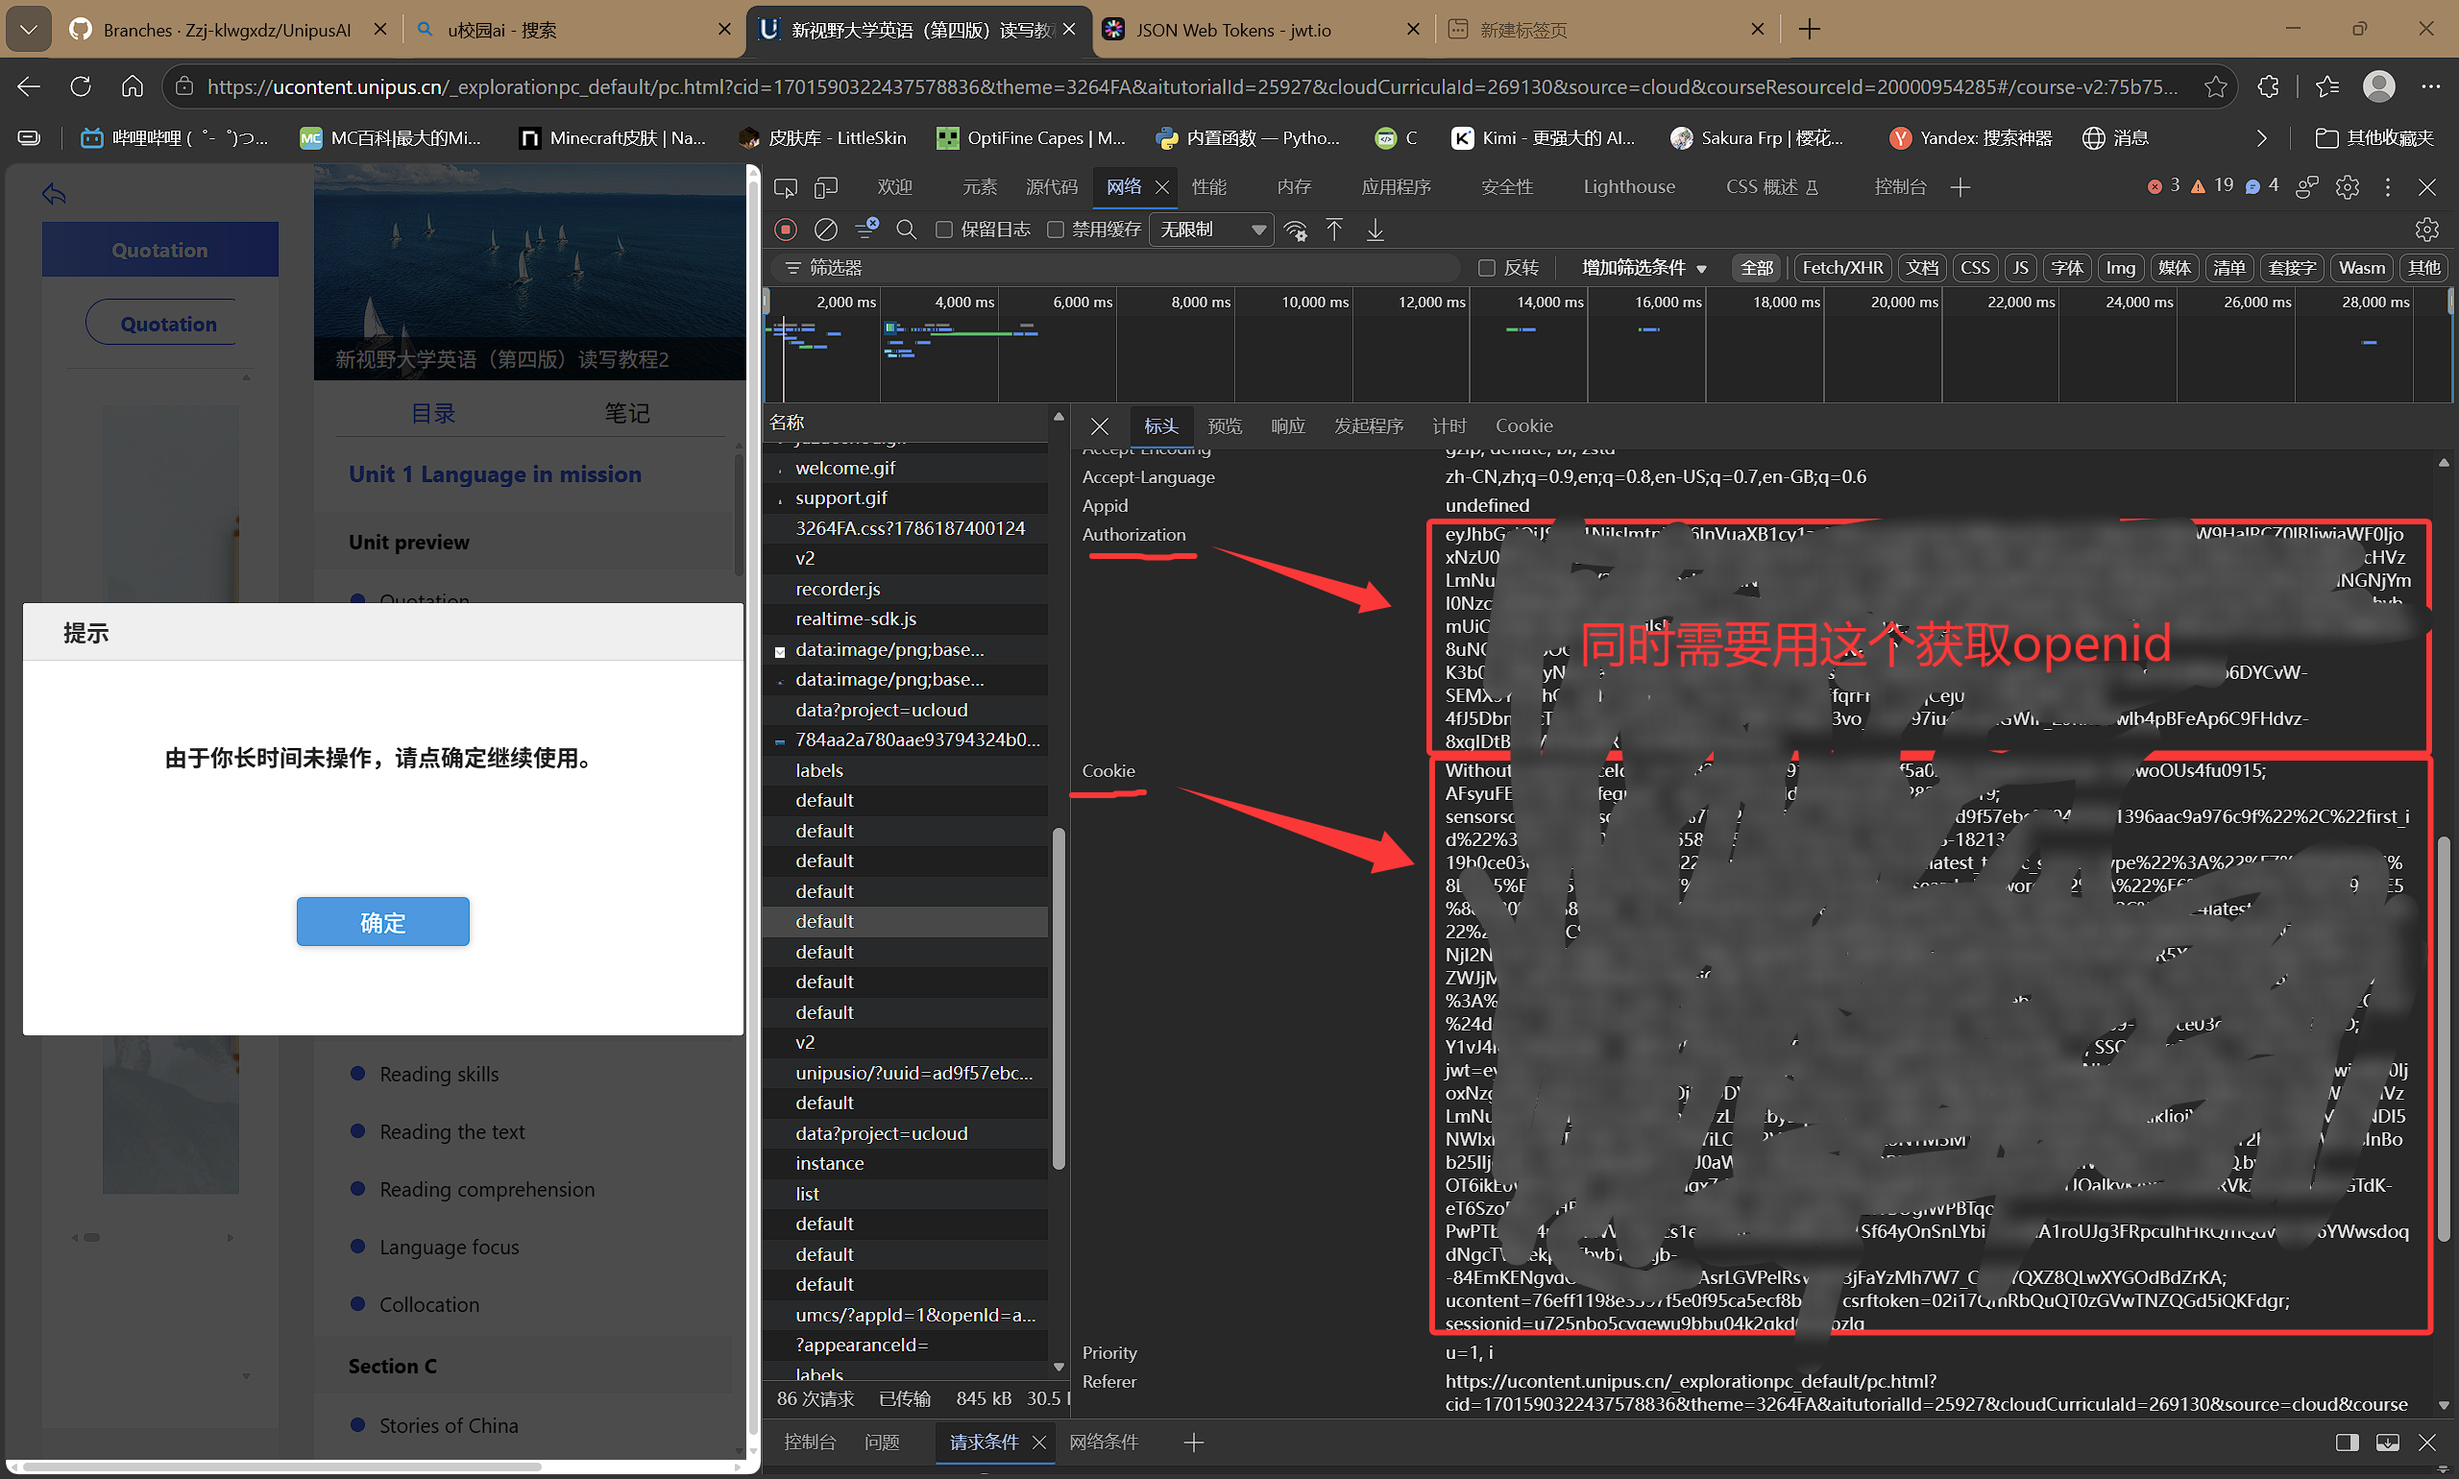
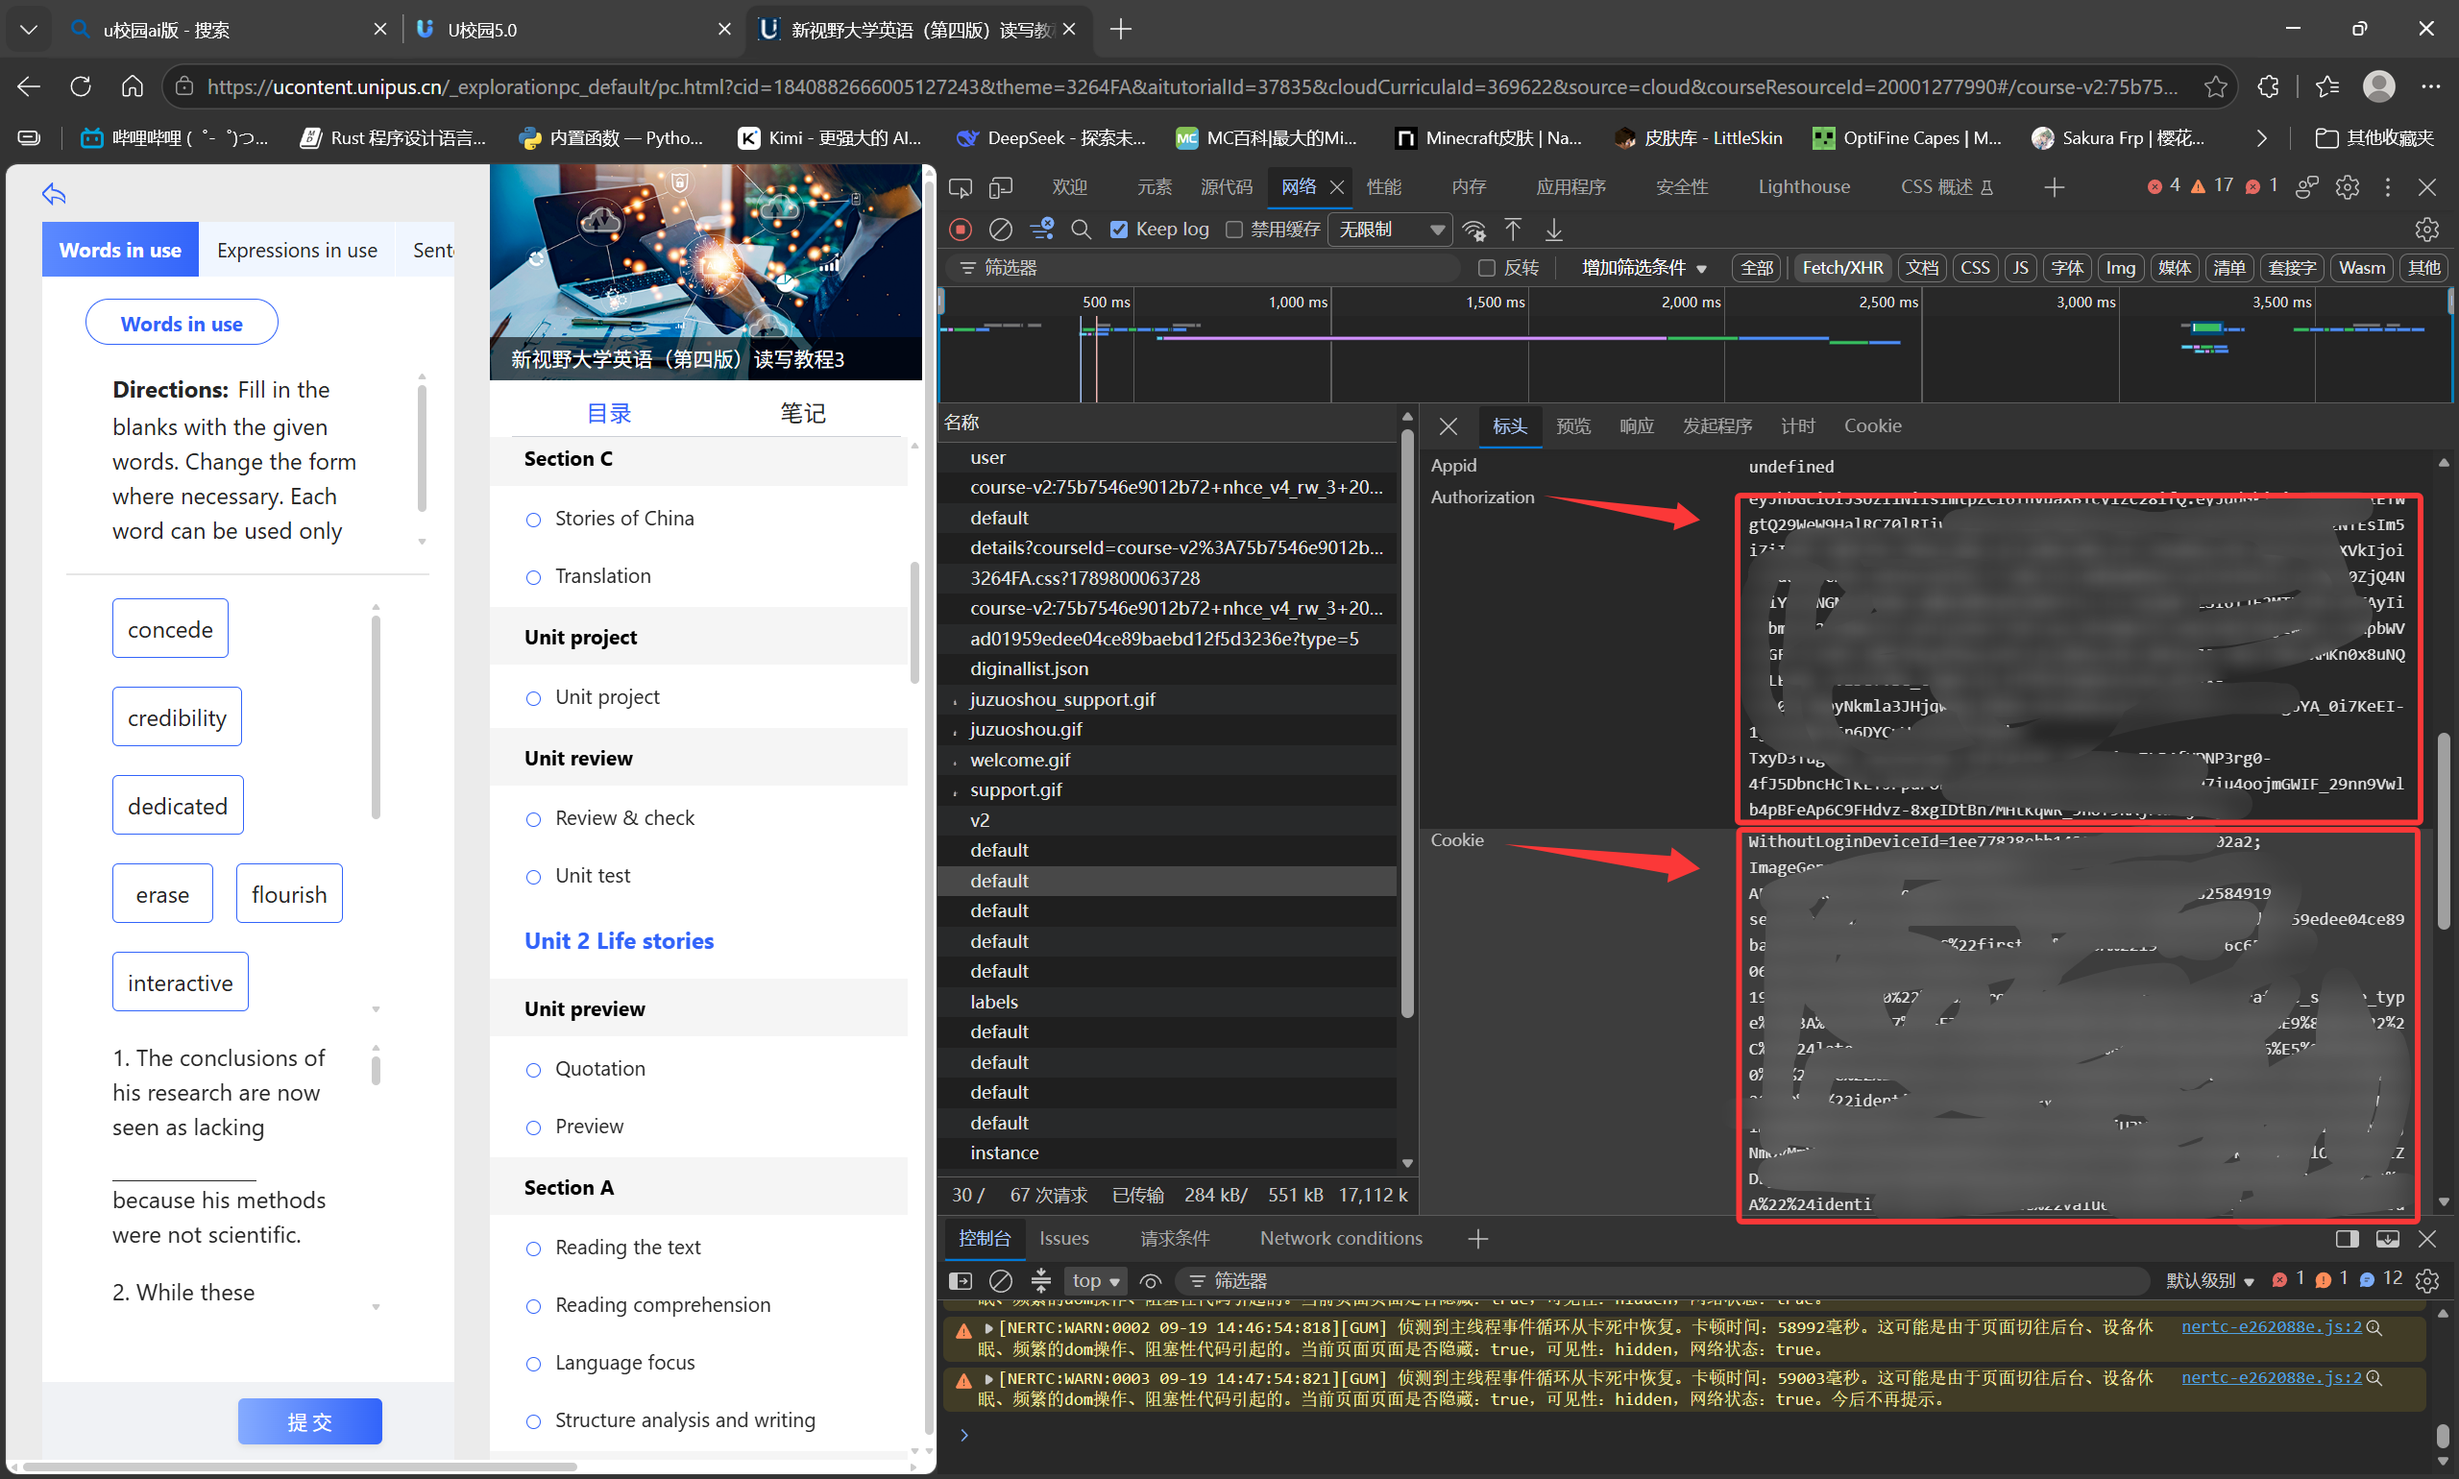
修复了一些问题

diff --git a/src/api/parser.rs b/src/api/parser.rs
@@ -38,6 +38,8 @@ pub struct Module {
     pub media_sources: Vec<String>,
     /// 内嵌字幕文本（contents[].text，如 WEBVTT）
     pub transcript: String,
+    /// 模块级词库（用于 bankedcloze 选词填空）
+    pub word_bank: Vec<OptionItem>,
     pub children: Vec<ChildQ>,
 }
 
@@ -193,6 +195,20 @@ pub fn parse_group(decrypted: &Value) -> Result<ParsedGroup> {
         let reply_type = get_str(&content, &["replyType"]).unwrap_or_default();
         let direction = direction_text(&content);
         let (material, media_sources, transcript) = collect_material(&content);
+        let word_bank = content
+            .get("options")
+            .and_then(|o| o.as_array())
+            .cloned()
+            .unwrap_or_default()
+            .iter()
+            .map(|o| OptionItem {
+                name: get_str(o, &["name", "value"]).unwrap_or_default(),
+                value: get_str(o, &["value", "name"]).unwrap_or_default(),
+                text: get_str(o, &["text"])
+                    .map(|s| strip_html(&s))
+                    .unwrap_or_default(),
+            })
+            .collect();
         let children = content
             .get("children")
             .and_then(|c| c.as_array())
@@ -240,6 +256,7 @@ pub fn parse_group(decrypted: &Value) -> Result<ParsedGroup> {
             media_sources,
             transcript,
             reply_type,
+            word_bank,
             children: child_qs,
         });
     }

diff --git a/src/solve.rs b/src/solve.rs
@@ -251,8 +251,25 @@ async fn solve_banked_cloze(session: &Session, m: &Module) -> Result<Vec<String>
     }
 }
 
-/// 词库：按 children 顺序去重收集选项单词（value 优先，回退 name/text）。
+/// 词库：优先使用模块级 word_bank（bankedcloze），回退到从 children 收集选项。
 fn word_bank(m: &Module) -> Vec<String> {
+    // 优先使用模块级词库（选词填空的词库在模块级 options 字段）
+    if !m.word_bank.is_empty() {
+        return m
+            .word_bank
+            .iter()
+            .map(|o| {
+                let w = if o.value.is_empty() {
+                    o.name.clone()
+                } else {
+                    o.value.clone()
+                };
+                if w.is_empty() { o.text.clone() } else { w }
+            })
+            .filter(|w| !w.is_empty())
+            .collect();
+    }
+    // 回退：从子题收集选项（兼容其他题型）
     let mut out: Vec<String> = Vec::new();
     for c in &m.children {
         for o in &c.options {
@@ -485,6 +502,7 @@ mod tests {
             media_sources: Vec::new(),
             transcript: String::new(),
             reply_type: "bankedcloze".into(),
+            word_bank: Vec::new(),
             children: vec![
                 ChildQ {
                     question_type: "material-banked-cloze".into(),

diff --git a/src/main.rs b/src/main.rs
@@ -346,14 +346,17 @@ async fn cmd_debug(session: &Session, group_id: &str) -> Result<()> {
     let rt = fetch_content(session, group_id).await?;
     let plain = decrypt_content(&rt.content, &rt.k)?;
     let dec = parse_decrypted(&plain)?;
+    println!("=== 解密后完整 JSON ===");
+    println!("{}", serde_json::to_string_pretty(&dec)?);
     let group = parse_group(&dec)?;
     for m in &group.modules {
         println!(
-            "[module {}] reply_type={} children={} material_len={}",
+            "[module {}] reply_type={} children={} material_len={} word_bank={}",
             m.instance_id,
             m.reply_type,
             m.children.len(),
-            m.material.chars().count()
+            m.material.chars().count(),
+            m.word_bank.len()
         );
         let values = UnipusAI::solve::solve_module(session, m).await?;
         for (ci, c) in m.children.iter().enumerate() {

diff --git a/Readme.md b/Readme.md
@@ -2,8 +2,9 @@
 
 本项目是原 Python + Selenium 版（v2.4）的 **Rust 完全重写版**：
 不需要浏览器、不需要 WebDriver，纯命令行 + 原生 HTTP 实现，更轻量、更快、更稳定
-### 原项目bug较多，如想用浏览器自动化方案请看[这个](https://github.com/YSJohnson/UnipusAI-Helper)
+### 原python项目bug较多，如想用浏览器自动化方案请看[这个](https://github.com/YSJohnson/UnipusAI-Helper),这个项目继承了原python版本的主要功能，并优化了用户体验
 ### 该项目在测试阶段，可能存在诸多问题，欢迎各位到issue留言
+### 本人英语已免修，所以目前只能借用别人的账号调试，并且学业繁忙，更新频率下降
 > 原 Python 版本（`Unipus_v2.4.py`、`AudioRecognizer.py`、`EnvironmentChecker.py` 等）已删除。
 
 ## 主要功能
@@ -123,7 +124,6 @@ vtt/srt 字幕 → 直接下载并解析纯文本
 提交若命中服务端限频（响应 `code=600001/600002`，或 `msg` 含"操作过于频繁"），程序自动等待冷却（递增 180s，最多 5 次）后重试该次提交，仅重做提交、不重复 LLM 作答。
 
 ## 使用方法
-
 ### 构建
 
 需要 Rust 工具链：
@@ -134,10 +134,10 @@ cargo build --release
 **注意使用release模式编译，使用debug模式会导致转写速度大幅下降**
 ### 依赖
 
-- **ffmpeg**：语音转写前置，需加入 PATH。
+- **ffmpeg**：语音转写前置，需将ffmpeg的bin文件夹加入系统PATH，例如`C:\ffmpeg\bin`
 - **whisper 模型**：转写用模型（默认 `base`），首次转写时自动从 HuggingFace 下载并缓存到 `~/.cache/whisper-candle/`；可通过环境变量 `HF_ENDPOINT=https://hf-mirror.com` 使用国内镜像。
 
-不配置这两者时程序仍可运行，只是带语音无字幕的题目会缺少材料。
+不配置这两者时程序仍可运行，但是带语音无字幕的题目会缺少材料。
 
 ### 配置
 
@@ -154,8 +154,8 @@ copy config.example.json config.json
 | `timeout` | 否 | HTTP 超时秒数，默认 10 |
 | `cookie` | **是** | 浏览器登录后的 Cookie |
 | `authorization` | **是** | ucontent JWT（Authorization 头） |
-| `x_annotator_auth_token` | 否 | 批注鉴权 token（从浏览器复制） |
-| `u_school` | 否 | 学校编号 |
+| `x_annotator_auth_token` | **是** | 批注鉴权 token |
+| `u_school` | **是** | 学校编号 |
 | `course_id` | **是** | 课程 id，如 `course-v2:...` |
 | `open_id` | **是** | 用户 open id |
 | `publish_version` | 是 | 课程发布版本号（会自动更新） |
@@ -184,8 +184,8 @@ copy config.example.json config.json
 | `cookie` | 该请求 `Headers` → Request Headers → `Cookie` 整条值 |
 | `authorization` | 同一请求头里的 `Authorization`（登录 JWT，`eyJ...`） |
 | `x_annotator_auth_token` | 同一请求头 `x-annotator-auth-token`（若无该头可留空） |
-| `u_school` | 同一请求头 `u-school`（学校编号，如 `8320`） |
-| `open_id` | 请求 URL 路径中的 open_id 段，或用 [jwt.io](https://jwt.io) 解码 `authorization` 载荷里的 `openId` |
+| `u_school` | 主页里的redDot请求里的`u-school`（学校编号，如 `8320`） |
+| `open_id` | 请求 URL 路径中的 open_id 段，在`publish_version`同一个页面|
 | `course_id` | 请求 URL 路径中的 `course-v2:...` 段（如 `/course/api/v2/course_progress/course-v2:xxx/`） |
 | `publish_version` | `course_progress` 接口响应体 `rt.publish_version` 字段 |
 | `api_key` / `base_url` / `model` | 大模型厂商控制台申请（DeepSeek / Moonshot / Kimi 等），如 DeepSeek 平台生成 `sk-xxx`，`base_url=https://api.deepseek.com`，`model=deepseek-v4-flash` |
@@ -201,7 +201,7 @@ copy config.example.json config.json
 ![x_auth](/imgs/X-Auth.png)
 ![cookie](/imgs/cookie.png)
 ![publish_version](/imgs/publish_version.png)
-![open_id](/imgs/how%20to%20get%20openid.png)
+![u_school](/imgs/u_school.png)
 
 ### 命令
 在源代码根目录
@@ -247,15 +247,15 @@ cargo test
 
 ## 更新日志
 ### 26/8/10
-增加了--names参数,修复了bankedcloze类题目的逻辑
+增加了--names参数,修复了banked_cloze类题目的逻辑
 ### 26/8/15
 改进了课程名识别逻辑
 ### 26/8/21
 增加服务端限频自动冷却
 ### 26/8/22
 新发现`https://uai.unipus.cn/api/cmgt/course/getHomeCourseListByStudent`接口，已应用于课程名的精确识别
-> UnipusAI_v3.1 release还未应用
-
+### 26/9/19
+修复了选词填空题目获取不到given_words的问题
 ## 许可证
 
 本项目在 [GNU GPL v3.0](LICENSE) 下发布。
